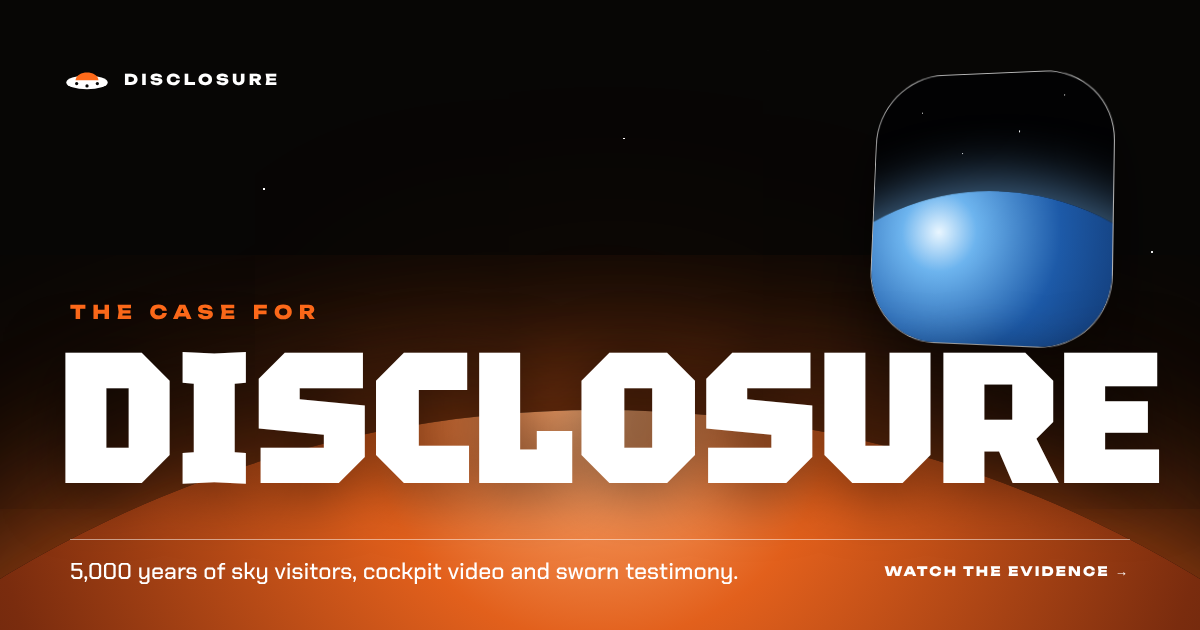
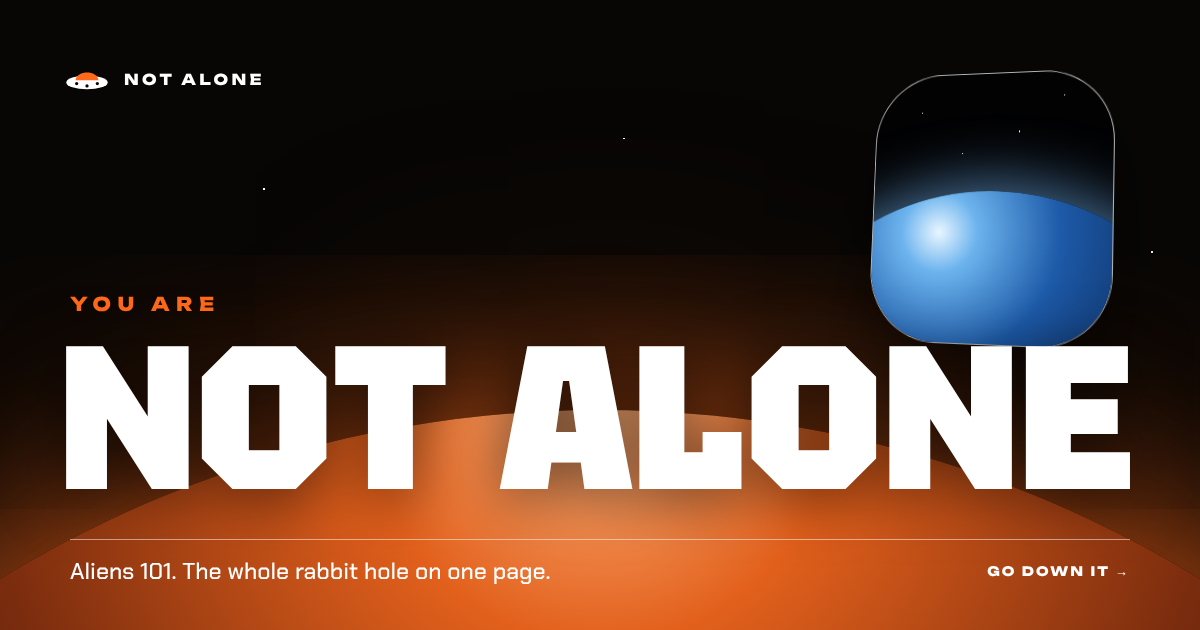
Rename to Not Alone; replace code-drawn beings and craft with photoreal AI plates
- Beings: one to-scale photoreal line-up with hotspots, portraits in each file
- Craft: 14 illustrated shapes (adds diamond, acorn/bell, Saturn shape, formations)
- Thesis: an illustration per chapter; film panels use trailer stills
- Side rail hides over the hero; lineup scrolls on phones
- New title, preview image and notalone101.vercel.app meta

Claude-Session: https://claude.ai/code/session_01Q8R8SLLEbLbDZ6hajFLDeA

diff --git a/app.js b/app.js
@@ -33,6 +33,8 @@ function show(frame, item, tileText, color) {
     const doc = /memo|Record|Times|Call|Assessment|Tehran|Twining|Blue Book|fatima|Nürnberg|Utsuro|graph|GEIPAN|map/i.test(a);
     frame.append(h("img", { src: cImg(a, 1100), alt: b, loading: "lazy", draggable: "false", class: doc ? "doc" : null, onerror: () => tile(frame, tileText, color) }), b ? h("div", { class: "cap", text: b }) : null,
       h("a", { class: "src", href: cPage(a), target: "_blank", rel: "noopener", text: "Commons · " + c }));
+  } else if (kind === "a") {
+    frame.append(h("img", { src: window.ART_BASE + a, alt: b, loading: "lazy", draggable: "false", onerror: () => tile(frame, tileText, color) }), b ? h("div", { class: "cap", text: b }) : null, h("span", { class: "src", text: "AI illustration" }));
   } else if (kind === "v") {
     const v = h("video", { controls: true, preload: "none", playsinline: true, poster: cPoster(a, 1100), "aria-label": c });
     ["480p.vp9.webm", "360p.mpeg4.mov", "240p.vp9.webm"].forEach(k => v.append(h("source", { src: cVid(a, b, k), type: k.endsWith("mov") ? "video/quicktime" : "video/webm" })));
@@ -49,7 +51,7 @@ function show(frame, item, tileText, color) {
 function mediaFrame(items, tileText, color) {
   const frame = h("div", { class: "media" }); items = (items || []).filter(Boolean);
   if (items.length > 1) { const tabs = h("div", { class: "tabs" });
-    items.forEach((it, i) => tabs.append(h("button", { type: "button", "aria-pressed": i === 0 ? "true" : "false", "aria-label": (it[0] === "i" ? "Image: " : "Video: ") + (it[0] === "v" ? it[3] : it[2]), text: it[0] === "i" ? "▣" : "▶", onclick: ev => { $$("button", tabs).forEach(x => x.setAttribute("aria-pressed", "false")); ev.currentTarget.setAttribute("aria-pressed", "true"); show(frame, it, tileText, color); } })));
+    items.forEach((it, i) => tabs.append(h("button", { type: "button", "aria-pressed": i === 0 ? "true" : "false", "aria-label": (it[0] === "i" || it[0] === "a" ? "Image: " : "Video: ") + (it[0] === "v" ? it[3] : it[2]), text: it[0] === "i" ? "▣" : it[0] === "a" ? "✦" : "▶", onclick: ev => { $$("button", tabs).forEach(x => x.setAttribute("aria-pressed", "false")); ev.currentTarget.setAttribute("aria-pressed", "true"); show(frame, it, tileText, color); } })));
     frame.append(tabs); }
   show(frame, items[0], tileText, color);
   return frame;
@@ -266,38 +268,24 @@ const CRAFT_G = {
   plasma: `<g class="blink"><circle cx="86" cy="58" r="26" fill="#ff6a1a" stroke="none" opacity=".6"/><circle cx="112" cy="64" r="22" fill="#ffd9b0" stroke="none" opacity=".6"/><circle cx="100" cy="54" r="12" fill="#fff" stroke="none"/></g><path d="M40 102c20-8 40 8 60 0s40 8 60 0" stroke-dasharray="2 7"/>`
 };
 
-/* ───────── beings lineup ───────── */
+/* ───────── beings lineup: one photoreal plate, eight hotspots ───────── */
+const A = window.ART, artUrl = k => window.ART_BASE + k;
 (() => {
-  const FT = 52, BASE = 470, W = 1210, B = Object.fromEntries(window.BEINGS.map(b => [b.g, b]));
-  const fig = (x, ft, o) => {
-    const H = ft * FT, top = BASE - H, hr = o.head * H, hy = top + hr * 1.15, sh = top + hr * 2.3 + H * .025, hip = BASE - H * .46, sw = o.sw * H, hw = o.hw * H, aw = o.limb * H, c = o.c, lw = o.ghost ? 1.5 : aw;
-    const body = o.orb ? `<circle cx="${x}" cy="${BASE - 150}" r="34" fill="${c}" opacity=".3"/><circle cx="${x}" cy="${BASE - 150}" r="20" fill="${c}"/><circle cx="${x}" cy="${BASE - 150}" r="52" fill="none" stroke="${c}" stroke-dasharray="2 8"/><path d="M${x} ${BASE - 96}V${BASE}" stroke="${c}" stroke-dasharray="1 9"/>` :
-      `<g fill="${o.ghost ? "none" : c}" stroke="${c}" stroke-linecap="round" stroke-linejoin="round" ${o.ghost ? 'stroke-dasharray="3 6"' : ""}><path d="M${x - sw} ${sh}L${x + sw} ${sh}L${x + hw} ${hip}L${x - hw} ${hip}z" stroke-width="${lw}"/><path d="M${x - sw} ${sh}L${x - sw - H * .035} ${hip + H * .1}M${x + sw} ${sh}L${x + sw + H * .035} ${hip + H * .1}M${x - hw * .55} ${hip}L${x - hw * .75} ${BASE - aw / 2}M${x + hw * .55} ${hip}L${x + hw * .75} ${BASE - aw / 2}" stroke-width="${lw}" fill="none"/><path d="M${x} ${hy + hr}L${x} ${sh}" stroke-width="${o.ghost ? 1.5 : aw * .9}"/></g>` +
-      (o.ghost ? `<ellipse cx="${x}" cy="${hy}" rx="${hr}" ry="${hr * 1.15}" fill="none" stroke="${c}" stroke-dasharray="3 6"/>` : o.tri ? `<path d="M${x - hr * 1.5} ${top + hr * .5}Q${x} ${top - hr * .5} ${x + hr * 1.5} ${top + hr * .5}L${x} ${top + hr * 2.5}z" fill="${c}"/>` : `<ellipse cx="${x}" cy="${hy}" rx="${hr * (o.hwid || 1)}" ry="${hr * 1.15}" fill="${c}"/>`) + (o.extra || (() => ""))(x, top, hr, hy, H, sh, hip);
-    return `<g class="${o.g ? "fg" : ""}" ${o.g ? `data-g="${o.g}" tabindex="0" role="button" aria-label="Open file: ${o.n}"` : 'opacity=".5"'}><rect x="${x - 62}" y="${BASE - 8.2 * FT}" width="124" height="${8.2 * FT + 60}" fill="transparent"/>${body}<text x="${x}" y="${BASE + 32}" text-anchor="middle" font-family="Tektur,Arial Narrow,sans-serif" font-weight="900" font-size="24" fill="#fff" style="text-transform:uppercase">${o.n.toUpperCase()}</text><text x="${x}" y="${BASE + 51}" text-anchor="middle" font-family="Unbounded,Arial,sans-serif" font-size="9" letter-spacing="1.4" fill="rgba(255,255,255,.66)">${o.h}</text></g>`;
-  };
-  const eyes = (dx, rx, ry, rot, col) => (x, top, hr, hy) => [-1, 1].map(s => `<ellipse cx="${x + s * hr * dx}" cy="${hy + hr * .2}" rx="${hr * rx}" ry="${hr * ry}" fill="${col || "#070605"}" transform="rotate(${-s * rot} ${x + s * hr * dx} ${hy + hr * .2})"/>`).join("");
-  const figs = [
-    [75, 3, { g: "goblin", n: "Little men", h: "UNDER 3 FT", head: .17, sw: .13, hw: .1, limb: .07, c: "#b9f0dc", extra: (x, top, hr, hy) => `<path d="M${x - hr} ${hy - hr * .3}l${-hr * .9} ${-hr * .9}l${hr * .5} ${hr * 1.2}zM${x + hr} ${hy - hr * .3}l${hr * .9} ${-hr * .9}l${-hr * .5} ${hr * 1.2}z" fill="#b9f0dc"/>` + eyes(.42, .26, .26, 0)(x, top, hr, hy) }],
-    [195, 4, { g: "grey", n: "Grey", h: "3.5 TO 4.5 FT", head: .13, hwid: 1.05, sw: .085, hw: .06, limb: .035, c: "#b4b9c4", extra: eyes(.45, .36, .22, 24) }],
-    [315, 5, { g: "hybrid", n: "Hybrid", h: "ABOUT 5 FT", head: .085, sw: .09, hw: .065, limb: .034, c: "#e9d9d0", extra: eyes(.45, .3, .2, 14) }],
-    [440, 5.75, { n: "You", h: "5 FT 9 IN", head: .065, sw: .12, hw: .085, limb: .05, c: "#fff", ghost: true }],
-    [570, 6.5, { g: "nordic", n: "Nordic", h: "6 TO 7 FT", head: .062, sw: .125, hw: .085, limb: .05, c: "#f4e6c4", extra: (x, top, hr, hy, H, sh) => `<path d="M${x - hr * 1.05} ${hy - hr * .5}Q${x - hr * 1.9} ${sh} ${x - hr * 1.5} ${sh + H * .09}M${x + hr * 1.05} ${hy - hr * .5}Q${x + hr * 1.9} ${sh} ${x + hr * 1.5} ${sh + H * .09}" stroke="#e7c873" stroke-width="${hr * .55}" fill="none" stroke-linecap="round"/>` }],
-    [700, 6.5, { g: "mantis", n: "Mantis", h: "6 TO 7 FT", head: .05, tri: true, sw: .075, hw: .05, limb: .024, c: "#a5d892", extra: (x, top, hr) => `<path d="M${x - hr * .6} ${top + hr * .2}Q${x - hr * 2.4} ${top - hr * 2.4} ${x - hr * 3.4} ${top - hr * 1.4}M${x + hr * .6} ${top + hr * .2}Q${x + hr * 2.4} ${top - hr * 2.4} ${x + hr * 3.4} ${top - hr * 1.4}" stroke="#a5d892" stroke-width="2" fill="none"/>` + [-1, 1].map(s => `<ellipse cx="${x + s * hr * .85}" cy="${top + hr * .75}" rx="${hr * .5}" ry="${hr * .3}" fill="#070605" transform="rotate(${-s * 28} ${x + s * hr * .85} ${top + hr * .75})"/>`).join("") }],
-    [845, 7, { g: "reptile", n: "Reptilian", h: "6 TO 8 FT", head: .066, sw: .15, hw: .1, limb: .06, c: "#d2a35a", extra: (x, top, hr, hy, H, sh, hip) => `<path d="M${x + H * .08} ${hip}Q${x + H * .24} ${BASE - H * .1} ${x + H * .1} ${BASE - 6}Q${x + H * .2} ${BASE - 2} ${x + H * .3} ${BASE - 10}" stroke="#d2a35a" stroke-width="${H * .03}" fill="none" stroke-linecap="round"/><path d="M${x - hr * .5} ${top + 2}l${hr * .25} ${-hr * .6}l${hr * .25} ${hr * .5}l${hr * .25} ${-hr * .6}l${hr * .25} ${hr * .6}" stroke="#d2a35a" stroke-width="2" fill="none"/>` + eyes(.42, .3, .1, 0)(x, top, hr, hy) }],
-    [1010, 7.5, { g: "white", n: "Tall White", h: "UP TO 8 FT", head: .062, sw: .095, hw: .065, limb: .034, c: "#f2f5ff", extra: eyes(.42, .34, .2, 16, "#5fb2ff") }],
-    [1130, 4, { g: "light", n: "Light form", h: "ANY SIZE", orb: true, head: .1, sw: .1, hw: .1, limb: .05, c: "#ffb476" }]
-  ];
-  let grid = ""; for (let f = 1; f <= 8; f++) grid += `<path d="M24 ${BASE - f * FT}H${W - 50}" stroke="rgba(255,255,255,${f % 2 ? .12 : .24})" stroke-dasharray="${f % 2 ? "2 8" : "0"}"/><text x="${W - 44}" y="${BASE - f * FT + 4}" font-family="Unbounded,Arial,sans-serif" font-size="9" fill="rgba(255,255,255,.66)">${f} FT</text>`;
-  const el = $("#lineup"); el.innerHTML = `<svg viewBox="0 0 ${W} 545" role="group" aria-label="Height comparison of eight reported being types against an average human"><path d="M24 ${BASE}H${W - 50}" stroke="rgba(255,255,255,.5)"/>${grid}${figs.map(([x, ft, o]) => fig(x, ft, o)).join("")}</svg>`;
-  const open = g => { const b = B[g], im = window.BEING_IMG[g]; if (!b) return; openDos({ left: im ? mediaFrame([["i", im[0], b.n, im[1]]], b.n, "var(--ice)") : h("div", { class: "art", html: svg("0 0 120 140", BEING_G[g]) }), meta: [h("span", { text: b.tag })], title: b.n, blocks: [["Look", b.look], ["Behaviour", b.does], ["Said to come from", b.from], ["Key cases", b.cases], ["Reality check", b.check, true]], links: [ext("Find accounts", ytFind(b.n + " alien encounter witness")), ext("Read more", wiki(b.n + " alien"))] }); };
-  el.addEventListener("click", e => { const g = e.target.closest(".fg"); if (g) open(g.dataset.g); });
-  el.addEventListener("keydown", e => { if ((e.key === "Enter" || e.key === " ") && e.target.matches(".fg")) { e.preventDefault(); open(e.target.dataset.g); } });
+  const B = Object.fromEntries(window.BEINGS.map(b => [b.g, b]));
+  const open = g => { const b = B[g]; if (!b) return; openDos({ left: A.being[g] ? mediaFrame([["a", A.being[g], b.n + ", as witnesses describe them"]], b.n, "var(--ice)") : h("div", { class: "art", html: svg("0 0 120 140", BEING_G[g]) }), meta: [h("span", { text: b.tag })], title: b.n, blocks: [["Look", b.look], ["Behaviour", b.does], ["Said to come from", b.from], ["Key cases", b.cases], ["Reality check", b.check, true]], links: [ext("Find accounts", ytFind(b.n + " alien encounter witness")), ext("Read more", wiki(b.n + " alien"))] }); };
+  const spots = [["goblin", "Little men", "Under 3 ft", 7.4, 53], ["grey", "Grey", "3.5 to 4.5 ft", 16.9, 37], ["hybrid", "Hybrid", "About 5 ft", 27.2, 30.5], [null, "You", "5 ft 9 in", 38.6, 24.5], ["nordic", "Nordic", "6 to 7 ft", 51, 13.5], ["mantis", "Mantis", "6 to 7 ft", 63.8, 9], ["reptile", "Reptilian", "6 to 8 ft", 77.5, 7.5], ["white", "Tall White", "Up to 8 ft", 91.2, 1.5]];
+  const shot = h("div", { class: "shot" }, h("img", { src: artUrl(A.lineup), alt: "Eight figures standing in a row against a dark wall, shortest to tallest: a little goblin-like being, a Grey, a hybrid, an average human, a Nordic, a mantis being, a Reptilian and a Tall White.", draggable: "false", onerror: e => { e.target.remove(); shot.classList.add("noimg"); } }),
+    spots.map(([g, n, ht, x, t]) => h(g ? "button" : "div", { class: "hs" + (g ? "" : " you"), type: g ? "button" : null, style: `--x:${x}%;--t:${t}%`, "data-cur": g ? "Open file" : null, "aria-label": g ? `Open file: ${n}, ${ht}` : null, onclick: g ? () => open(g) : null }, h("span", { class: "tag" }, h("b", { text: n }), h("i", { text: ht })))), h("span", { class: "ai", text: "AI illustration · heights to scale" }));
+  $("#lineup").append(h("div", { class: "plate" }, shot));
+  const L = B.light; $("#lineup").after(h("button", { class: "orbcard", type: "button", "data-cur": "Open file", onclick: () => open("light") }, A.being.light ? h("img", { src: artUrl(A.being.light), alt: "", loading: "lazy", draggable: "false", onerror: e => e.target.remove() }) : null, h("span", {}, h("i", { text: L.tag }), h("b", { text: L.n }), h("em", { text: "The ninth type has no body to measure. Open the file →" }))));
 })();
 
 /* ───────── craft, observables ───────── */
-$("#craft-deck").append(deck(window.CRAFT.map(c => { const art = () => h("div", { class: "art", html: svg("0 0 200 120", CRAFT_G[c.g] || "") });
-  return h("article", { class: "pan craft" }, art(), h("div", { class: "pf" }, h("div", { class: "meta" }, h("span", { text: c.size })), h("h3", { text: c.n }), h("button", { class: "open", type: "button", "data-cur": "Open file", text: "Open the file →", onclick: () => openDos({ left: art(), meta: [h("span", { text: "Reported size " + c.size })], title: c.n, blocks: [["How it behaves", c.how], ["Key cases", c.cases], ["Often turns out to be", c.alike, true]], links: [ext("Find footage", ytFind(c.n + " UFO footage"))] }) }))); })));
+$("#craft-count").textContent = `${["Zero","One","Two","Three","Four","Five","Six","Seven","Eight","Nine","Ten","Eleven","Twelve","Thirteen","Fourteen","Fifteen","Sixteen"][window.CRAFT.length] || window.CRAFT.length} shapes. Orbs and lights make up most of today's military reports.`;
+$("#craft-deck").append(deck(window.CRAFT.map(c => { const u = A.craft[c.g];
+  const art = () => { const b = h("div", { class: "art" }); if (u) b.append(h("img", { src: artUrl(u), alt: c.n + ", illustrated", loading: "lazy", draggable: "false", onerror: e => { b.innerHTML = svg("0 0 200 120", CRAFT_G[c.g] || ""); } }), h("span", { class: "ai", text: "AI illustration" })); else b.innerHTML = svg("0 0 200 120", CRAFT_G[c.g] || ""); return b; };
+  const file = () => openDos({ left: u ? mediaFrame([["a", u, c.n]], c.n, "var(--hot)") : art(), meta: [h("span", { text: "Reported size " + c.size })], title: c.n, blocks: [["How it behaves", c.how], ["Key cases", c.cases], ["Often turns out to be", c.alike, true]], links: [ext("Find footage", ytFind(c.n + " UFO footage"))] });
+  return h("article", { class: "pan craft" }, art(), h("div", { class: "pf" }, h("div", { class: "meta" }, h("span", { text: c.size })), h("h3", { text: c.n }), h("button", { class: "open", type: "button", "data-cur": "Open file", text: "Open the file →", onclick: file }))); })));
 window.OBSERVABLES.forEach((o, i) => $("#obs").append(h("div", {}, h("b", { text: String(i + 1) }), h("h4", { text: o.n }), h("p", { text: o.t }))));
 $("#obs-vid").append(mediaFrame([window.SECTION_VIDEO.observables], "5", "var(--hot)"), mediaFrame([["i", "USS Nimitz 2004 tic tac UFO.jpg", "Artist's reconstruction of the 2004 Nimitz encounter", "CC BY-SA 4.0"]], "2004", "var(--hot)"));
 
@@ -328,13 +316,16 @@ const VOICE_YT = { "David Grusch": "RBAISwCZ2v0", "Jacques Vallée": "fyX8V1XXmQ
 /* ───────── thesis, films ───────── */
 function filmDeck() {
   return deck(window.FILMS.map((f, i) => { const frame = h("div", { class: "media" }), id = window.FILM_YT[f.y];
-    const face = h("a", { class: "face", href: id ? "https://www.youtube.com/watch?v=" + id : ytFind(f.n + " official trailer"), target: "_blank", rel: "noopener", "data-cur": "Trailer", "aria-label": "Play trailer: " + f.n }, h("div", { class: "poster", style: `--h:${(18 + i * 29) % 360}` }, h("b", { text: String(f.y) }), h("div", {}, f.s ? h("span", { text: "Spielberg" }) : null, h("h4", { text: f.n }))), h("span", { class: "play" }));
+    const face = h("a", { class: "face", href: id ? "https://www.youtube.com/watch?v=" + id : ytFind(f.n + " official trailer"), target: "_blank", rel: "noopener", "data-cur": "Trailer", "aria-label": "Play trailer: " + f.n }, h("div", { class: "poster" + (id ? " shot" : ""), style: `--h:${(18 + i * 29) % 360}` }, id ? h("img", { src: `https://i.ytimg.com/vi/${id}/hqdefault.jpg`, alt: "", loading: "lazy", draggable: "false", onerror: e => { e.target.parentElement.classList.remove("shot"); e.target.remove(); } }) : null, h("b", { text: String(f.y) }), h("div", {}, f.s ? h("span", { text: "Spielberg" }) : null, h("h4", { text: f.n }))), h("span", { class: "play" }));
     if (EMBED && id) face.addEventListener("click", ev => { ev.preventDefault(); frame.replaceChildren(h("iframe", { src: `https://www.youtube-nocookie.com/embed/${id}?autoplay=1&rel=0`, title: f.n + " trailer", allow: "autoplay; encrypted-media; picture-in-picture; fullscreen", allowfullscreen: true, referrerpolicy: "strict-origin-when-cross-origin" })); });
     frame.append(face); return h("article", { class: "pan" }, frame, h("p", { text: f.t })); }), "films");
 }
+const TH_CAP = ["They came down, and we called them gods", "One sky, three pyramids", "Something was added", "The view from the other side of the glass", "Same visitor, different costume", "What a secret this size would look like", "We were shown it in the dark first", "The proof may already be inside us"];
 window.THESIS.forEach((t, i) => {
-  const inset = i === 6 ? h("div", { class: "inset wide", style: "margin-left:calc(-1*var(--pad));margin-right:calc(-1*var(--pad))" }, filmDeck()) : i === 0 ? h("div", { class: "inset" }, mediaFrame([["i", "Pieter Bruegel the Elder - The Fall of the Rebel Angels - Google Art Project.jpg", "Bruegel, The Fall of the Rebel Angels, 1562", "PD"]], "I", "var(--hot)")) : i === 3 ? h("div", { class: "inset" }, mediaFrame([window.SECTION_VIDEO.zoo], "IV", "var(--hot)")) : null;
-  $("#thesis-list").append(h("div", { class: "th" }, h("b", { text: String(i + 1) }), h("div", {}, h("h3", { text: t.n }), h("p", { class: "say", text: t.t }), inset,
+  const items = [A.thesis[i] ? ["a", A.thesis[i], TH_CAP[i]] : null, i === 0 ? ["i", "Pieter Bruegel the Elder - The Fall of the Rebel Angels - Google Art Project.jpg", "Bruegel, The Fall of the Rebel Angels, 1562", "PD"] : null, i === 3 ? window.SECTION_VIDEO.zoo : null];
+  const inset = items.some(Boolean) ? h("div", { class: "inset art16" }, mediaFrame(items, ["I", "II", "III", "IV", "V", "VI", "VII", "VIII"][i], "var(--hot)")) : null;
+  const films = i === 6 ? h("div", { class: "inset wide", style: "margin-left:calc(-1*var(--pad));margin-right:calc(-1*var(--pad))" }, filmDeck()) : null;
+  $("#thesis-list").append(h("div", { class: "th" }, h("b", { text: String(i + 1) }), h("div", {}, h("h3", { text: t.n }), inset, h("p", { class: "say", text: t.t }), films,
     h("details", {}, h("summary", { class: "open", "data-cur": "Expand", text: "Pressure test →" }), h("div", { class: "rowbody" }, blk("What supports it", t.f), blk("What cuts against it", t.x, true))))));
 });
 
@@ -360,5 +351,6 @@ for (const k in window.LIBRARY) $("#lib").append(h("div", {}, h("h3", { text: k 
 $("#lib").append(h("div", {}, h("h3", { text: "Sources" }), h("ul", {}, window.SOURCES.map(([t, u]) => h("li", {}, h("a", { href: u, target: "_blank", rel: "noopener", text: t + " ↗" }))))));
 $("#credits").append("Background photography: ", Object.values(window.BG).map(([f, lic, who], i) => [i ? ", " : "", h("a", { href: cPage(f), target: "_blank", rel: "noopener", text: who }), " (" + lic + ")"]), ". Hero video from the Planet Jumping asset set.");
 
+new IntersectionObserver(es => document.body.classList.toggle("at-top", es[0].isIntersecting), { rootMargin: "-45% 0px -45% 0px" }).observe($("#top"));
 armBg(document); reveal(document); collectPar(); parallax(); requestAnimationFrame(frame); requestAnimationFrame(portalFrame);
 })();

diff --git a/style.css b/style.css
@@ -69,6 +69,8 @@ main,footer{position:relative;z-index:1}
 .rail a.on{color:#fff;font-weight:600;font-size:16px;gap:8px}
 .rail a.on::before{width:12px}
 .rail a:hover{color:#fff;transform:translateX(4px)}
+.rail{transition:opacity .5s,visibility .5s}
+body.at-top .rail{opacity:0!important;visibility:hidden}
 .hud{position:fixed;z-index:54;left:var(--pad);right:var(--pad);bottom:14px;display:flex;justify-content:space-between;font:500 10px var(--ui);letter-spacing:.16em;text-transform:uppercase;color:var(--dim);pointer-events:none;mix-blend-mode:difference}
 .hud b{color:#fff;font-weight:500}
 .bar{position:fixed;z-index:61;left:0;top:0;height:2px;width:0;background:var(--hot);box-shadow:0 0 12px var(--hot)}
@@ -196,7 +198,7 @@ button.chip[aria-pressed=true]{background:#fff;color:#000;border-color:#fff}
 @media (max-width:760px){.duo{grid-template-columns:1fr}}
 
 /* ── filter bar ── */
-.tools{position:sticky;top:0;z-index:40;display:flex;flex-wrap:wrap;gap:8px;align-items:center;padding:74px var(--pad) 12px calc(var(--pad) + var(--railw));background:linear-gradient(rgba(7,6,5,.92) 60%,transparent)}
+.tools{position:sticky;top:0;z-index:8;display:flex;flex-wrap:wrap;gap:8px;align-items:center;padding:74px var(--pad) 12px calc(var(--pad) + var(--railw));background:linear-gradient(rgba(7,6,5,.92) 60%,transparent)}
 .tools input{flex:1 1 200px;max-width:340px;height:36px;border-radius:999px;border:1px solid rgba(255,255,255,.45);background:var(--glass);backdrop-filter:blur(12px);padding:0 16px;color:#fff;font:500 14px var(--body)}
 .tools input::placeholder{color:var(--dim)}
 .era .mega{font-size:clamp(40px,7.4vw,128px)}
@@ -222,15 +224,36 @@ button.chip[aria-pressed=true]{background:#fff;color:#000;border-color:#fff}
 @media (max-width:900px){.stage .list{flex-direction:row;overflow-x:auto;right:0;left:0;padding:0 var(--pad);gap:16px;top:150px;scrollbar-width:none}.stage .list button{white-space:nowrap}.stage .big{display:none}}
 
 /* ── lineup ── */
-.lineup{overflow-x:auto;border-radius:28px;border:1px solid rgba(255,255,255,.45);background:rgba(7,6,5,.55);backdrop-filter:blur(14px)}
-.lineup svg{display:block;width:100%;min-width:900px;height:auto}
-.lineup .fg{transition:transform .5s var(--ease),filter .3s;transform-box:fill-box;transform-origin:50% 100%}
-.lineup .fg:hover{transform:scale(1.045);filter:drop-shadow(0 0 22px rgba(255,255,255,.55))}
-
-/* ── craft panels ── */
-.pan.craft{flex-basis:min(70vw,440px)}
+.lineup{overflow-x:auto;border-radius:28px;border:1px solid rgba(255,255,255,.45);background:#060504;scrollbar-width:none}
+.lineup::-webkit-scrollbar{display:none}
+.plate{min-width:1000px;padding-bottom:78px}
+.shot{position:relative}
+.shot>img{display:block;width:100%;height:auto;aspect-ratio:1344/752}
+.shot.noimg{height:150px}
+.shot.noimg .hs{top:0}
+.hs{position:absolute;left:calc(var(--x) - 5.7%);width:11.4%;top:var(--t);bottom:0;background:none;border:0;padding:0;color:#fff;border-radius:14px 14px 0 0;transition:background .4s}
+.hs::before{content:"";position:absolute;left:10%;right:10%;top:0;height:1px;background:var(--hot);box-shadow:0 0 14px var(--hot);transform:scaleX(0);transition:transform .5s var(--ease)}
+button.hs:hover,button.hs:focus-visible{background:linear-gradient(to top,rgba(255,106,26,.34),rgba(255,106,26,.06) 55%,transparent);outline:0}
+button.hs:hover::before,button.hs:focus-visible::before{transform:scaleX(1)}
+.hs .tag{position:absolute;top:100%;left:50%;transform:translateX(-50%);padding-top:16px;display:grid;gap:5px;justify-items:center;white-space:nowrap;transition:transform .4s var(--ease),color .3s}
+.hs .tag b{font:900 clamp(15px,1.55vw,24px)/1 var(--mega);text-transform:uppercase}
+.hs .tag i{font:500 9px var(--ui);font-style:normal;letter-spacing:.06em;text-transform:uppercase;color:var(--dim)}
+button.hs:hover .tag,button.hs:focus-visible .tag{color:var(--hot);transform:translateX(-50%) translateY(-4px)}
+.hs.you .tag b{-webkit-text-stroke:1px #fff;color:transparent}
+.ai{position:absolute;right:14px;top:14px;z-index:3;font:500 9px var(--ui);letter-spacing:.1em;text-transform:uppercase;background:rgba(0,0,0,.55);padding:6px 9px;border-radius:999px;backdrop-filter:blur(8px);pointer-events:none}
+.orbcard{position:relative;display:block;width:100%;margin-top:16px;aspect-ratio:21/6;min-height:170px;border-radius:28px;border:1px solid rgba(255,255,255,.45);overflow:hidden;background:#0b0a09;color:#fff;text-align:left;padding:0}
+.orbcard img{position:absolute;inset:0;width:100%;height:100%;object-fit:cover;object-position:50% 62%;transition:transform 1.4s var(--ease)}
+.orbcard:hover img{transform:scale(1.05)}
+.orbcard::after{content:"";position:absolute;inset:0;background:linear-gradient(90deg,rgba(7,6,5,.86),rgba(7,6,5,.2) 55%,transparent)}
+.orbcard span{position:absolute;z-index:2;left:clamp(20px,3vw,40px);bottom:clamp(18px,2.4vw,32px);display:grid;gap:8px}
+.orbcard i{font:500 9px var(--ui);font-style:normal;letter-spacing:.16em;text-transform:uppercase;color:var(--hot)}
+.orbcard b{font:900 clamp(28px,4vw,62px)/.9 var(--mega);text-transform:uppercase}
+.orbcard em{font-style:normal;font-size:14px;color:rgba(255,255,255,.86)}
 .art{position:relative;aspect-ratio:16/11;border-radius:28px;border:1px solid rgba(255,255,255,.45);background:rgba(7,6,5,.5);backdrop-filter:blur(10px);display:grid;place-items:center;overflow:hidden}
 .art svg{width:78%;height:78%;overflow:visible}
+.art>img{position:absolute;inset:0;width:100%;height:100%;object-fit:cover;transition:transform 1.4s var(--ease)}
+.pan:hover .art>img{transform:scale(1.06)}
+.pan.craft .art{aspect-ratio:16/10;box-shadow:0 30px 80px -30px #000}
 .float{animation:float 6s ease-in-out infinite}
 @keyframes float{50%{transform:translateY(-9px)}}
 .blink{animation:blink 2.4s ease-in-out infinite}
@@ -300,6 +323,8 @@ button.chip[aria-pressed=true]{background:#fff;color:#000;border-color:#fff}
 .th details .rowbody{grid-template-columns:1fr;padding-top:16px}
 .th .inset{margin-top:24px;max-width:62ch}
 .th .inset.wide{max-width:none}
+.th .inset.art16{max-width:min(100%,1040px);margin-top:26px}
+.th .inset.art16 .media{aspect-ratio:16/9;border:1px solid rgba(255,255,255,.4)}
 @media (max-width:640px){.th{grid-template-columns:1fr}}
 .closing{font:900 clamp(30px,5vw,88px)/.92 var(--mega);text-transform:uppercase;max-width:16em;margin-top:clamp(50px,8vw,110px);text-wrap:balance}
 .closing em{font-style:normal;color:var(--hot)}
@@ -307,6 +332,10 @@ button.chip[aria-pressed=true]{background:#fff;color:#000;border-color:#fff}
 .poster{position:absolute;inset:0;display:flex;flex-direction:column;justify-content:space-between;padding:20px;background:linear-gradient(155deg,hsl(var(--h) 60% 30%),#0b0908 70%)}
 .poster b{font:900 84px/.8 var(--mega);-webkit-text-stroke:1.5px #fff;color:transparent}
 .poster h4{font:900 32px/.92 var(--mega);text-transform:uppercase;max-width:88%}
+.poster.shot{background:#0b0908}
+.poster>img{position:absolute;inset:0;width:100%;height:100%;object-fit:cover;z-index:0}
+.poster.shot::before{content:"";position:absolute;inset:0;z-index:1;background:linear-gradient(rgba(7,6,5,.55),transparent 35%,transparent 45%,rgba(7,6,5,.9))}
+.poster>b,.poster>div{position:relative;z-index:2}
 .poster span{font:500 9px var(--ui);letter-spacing:.16em;text-transform:uppercase;color:var(--hot)}
 .films p{font-size:14px;color:var(--dim);padding:12px 6px 0}
 

diff --git a/index.html b/index.html
@@ -3,22 +3,22 @@
 <head>
 <meta charset="utf-8">
 <meta name="viewport" content="width=device-width, initial-scale=1">
-<title>The Case for Disclosure</title>
-<meta name="description" content="Five thousand years of sky visitors, crash stories, cockpit video and sworn testimony. Watch the evidence, then read the pushback beside every claim.">
+<title>Not Alone · Aliens 101</title>
+<meta name="description" content="The whole rabbit hole on one page. Sky gods, Roswell, the Tic Tac, Congress under oath, and what it could all mean. Watch the evidence, then read the pushback beside every claim.">
 <meta name="theme-color" content="#070605">
 <link rel="icon" href="favicon.svg" type="image/svg+xml">
 <link rel="apple-touch-icon" href="apple-touch-icon.png">
 <meta property="og:type" content="website">
-<meta property="og:title" content="The Case for Disclosure">
-<meta property="og:description" content="Five thousand years of sky visitors, crash stories, cockpit video and sworn testimony, in one scroll.">
-<meta property="og:url" content="https://case-for-disclosure.vercel.app/">
-<meta property="og:image" content="https://case-for-disclosure.vercel.app/og.png">
+<meta property="og:title" content="Not Alone · Aliens 101">
+<meta property="og:description" content="The whole rabbit hole on one page. Sky gods, Roswell, the Tic Tac, Congress under oath, and what it could all mean.">
+<meta property="og:url" content="https://notalone101.vercel.app/">
+<meta property="og:image" content="https://notalone101.vercel.app/og.png">
 <meta property="og:image:width" content="1200">
 <meta property="og:image:height" content="630">
 <meta name="twitter:card" content="summary_large_image">
-<meta name="twitter:title" content="The Case for Disclosure">
-<meta name="twitter:description" content="Five thousand years of sky visitors, crash stories, cockpit video and sworn testimony, in one scroll.">
-<meta name="twitter:image" content="https://case-for-disclosure.vercel.app/og.png">
+<meta name="twitter:title" content="Not Alone · Aliens 101">
+<meta name="twitter:description" content="The whole rabbit hole on one page. Sky gods, Roswell, the Tic Tac, Congress under oath, and what it could all mean.">
+<meta name="twitter:image" content="https://notalone101.vercel.app/og.png">
 <link rel="preload" href="fonts/tektur-latin-900-normal.woff2" as="font" type="font/woff2" crossorigin>
 <link rel="stylesheet" href="style.css">
 </head>
@@ -28,9 +28,9 @@
 
 <div class="pre" id="pre" aria-label="Loading"><video id="pre-video" muted playsinline preload="auto" src="https://d2ol7oe51mr4n9.cloudfront.net/user_38xzZboKViGWJOttwIXH07lWA1P/5fc5651c-3b5d-4171-b507-87f7e635d1b4.mp4"></video></div>
 <div class="pre-count" id="pre-count" aria-live="polite"><span id="pre-val">0</span><i>%</i></div>
-<a class="logo" id="logo" href="#top" aria-label="Disclosure, back to top">
+<a class="logo" id="logo" href="#top" aria-label="Not Alone, back to top">
   <svg viewBox="0 0 40 40" fill="none" aria-hidden="true"><ellipse cx="20" cy="23" rx="18" ry="6" fill="#fff"/><path d="M10 21c1-9 19-9 20 0z" fill="#ff6a1a"/><circle cx="11" cy="24" r="1.4" fill="#070605"/><circle cx="20" cy="26" r="1.4" fill="#070605"/><circle cx="29" cy="24" r="1.4" fill="#070605"/></svg>
-  <span>Disclosure</span>
+  <span>Not Alone</span>
 </a>
 <header class="top"><nav class="nav" id="nav" aria-label="Primary"></nav><button class="menu" id="menu" type="button" data-cur="Menu">Menu</button></header>
 <aside class="rail" id="rail" aria-label="Sections"></aside>
@@ -47,7 +47,7 @@
     <button class="portal" id="portal" type="button" data-cur="Enter" aria-label="Enter: travel to Earth and watch the footage"></button>
   </div>
   <div class="hero-content chrome">
-    <h1><small>The case for</small>Disclosure</h1>
+    <h1><small>You are</small>Not alone</h1>
     <dl class="facts" id="facts"></dl>
   </div>
   <video id="portal-video" muted playsinline loop preload="auto" src="https://d2ol7oe51mr4n9.cloudfront.net/user_38xzZboKViGWJOttwIXH07lWA1P/fc3ded42-e845-41f3-a830-5cab512d79cd.mp4" style="position:absolute;width:1px;height:1px;visibility:hidden"></video>
@@ -83,12 +83,12 @@
 </section>
 
 <section class="scene" id="beings" data-name="Beings"><div class="bg" data-bg="beings"></div><div class="veil"></div>
-  <div class="inner"><div class="headrow"><div><span class="kick">Who people see</span><h2 class="mega">The <em>beings</em></h2></div><p class="lede">Heights as witnesses most often report them, drawn to one scale. Pick a figure to open its file.</p></div>
+  <div class="inner"><div class="headrow"><div><span class="kick">Who people see</span><h2 class="mega">The <em>beings</em></h2></div><p class="lede">Heights as witnesses most often report them, shown to one scale. Pick a figure to open its file.</p></div>
     <div class="lineup" id="lineup"></div></div>
 </section>
 
 <section class="scene" id="craft" data-name="Craft"><div class="bg" data-bg="craft"></div><div class="veil"></div>
-  <div class="inner"><div class="headrow"><div><span class="kick">What people see</span><h2 class="mega">The <em>craft</em></h2></div><p class="lede">Ten shapes. Orbs and lights make up most of today's military reports.</p></div></div>
+  <div class="inner"><div class="headrow"><div><span class="kick">What people see</span><h2 class="mega">The <em>craft</em></h2></div><p class="lede" id="craft-count">Orbs and lights make up most of today's military reports.</p></div></div>
   <div id="craft-deck"></div>
   <div class="inner"><h3 class="sub">Why they are not aircraft</h3><div class="split"><div class="obs" id="obs"></div><div class="stack" id="obs-vid"></div></div></div>
 </section>
@@ -147,6 +147,7 @@
 <script src="data/atlas.js"></script>
 <script src="data/media.js"></script>
 <script src="data/extra.js"></script>
+<script src="data/art.js"></script>
 <script src="app.js"></script>
 </body>
 </html>

diff --git a/data/art.js b/data/art.js
@@ -1,0 +1,41 @@
+/* Original AI illustrations generated for this site (Higgsfield, GPT Image). They are reconstructions of witness descriptions, not photographs. */
+window.ART_BASE = "https://d8j0ntlcm91z4.cloudfront.net/user_3JmN8ceS5QkrfG5ooFzPEFDS1rx/";
+window.ART = {
+ "lineup": "hf_20261113_220115_b53c0c25-f66a-4b0c-9ec7-52a451f55c74.png",
+ "being": {
+  "grey": "hf_20261113_220218_5c45c6a8-4137-4a41-9df1-3bbcb3e30982.png",
+  "nordic": "hf_20261113_220306_7fc15b39-8927-4aee-8986-0a03ed49a1aa.png",
+  "reptile": "hf_20261113_220306_d673ad55-0ef6-4319-8136-0859d5707ea2.png",
+  "mantis": "hf_20261113_220307_033bf7ed-33b8-4008-9a47-9e3d7bc06cae.png",
+  "white": "hf_20261113_220219_1ca503d4-ca3b-4f2e-a2ec-8b8438c2b7e0.png",
+  "goblin": "hf_20261113_220218_407d9bea-ffb4-411a-bff2-913be6f9e819.png",
+  "hybrid": "hf_20261113_220307_0820e6ab-e143-40fd-a7f4-013c84f3d524.png",
+  "light": "hf_20261113_220217_99373c3d-311e-4891-bb9a-1ce2e756d76c.png"
+ },
+ "craft": {
+  "orb": "hf_20261113_220709_34227866-e933-49d4-b2c0-a096bea653ba.png",
+  "disc": "hf_20261113_220708_5698468b-3063-4099-8955-e05016894347.png",
+  "triangle": "hf_20261113_220708_0ad138a9-e1e7-4dc5-9fe1-04659539bb68.png",
+  "tictac": "hf_20261113_220708_398da72a-d21d-4439-9c1f-1c9c0de2866c.png",
+  "cigar": "hf_20261113_220752_693e5606-5c87-4d80-a8e4-8236d71b221e.png",
+  "egg": "hf_20261113_220752_13588bc8-8cd4-4ce0-a5c1-1e4a825f8515.png",
+  "cube": "hf_20261113_220936_0ec9ae77-a85d-4e9e-9730-38648d791cac.png",
+  "boomerang": "hf_20261113_220752_7f4dae24-e653-4d4b-b797-8fd65d3a4091.png",
+  "diamond": "hf_20261113_220844_8d8b4375-523e-4108-8984-f908657fbf83.png",
+  "acorn": "hf_20261113_221042_08998277-49f5-471a-bb0a-330965d8e28c.png",
+  "saturn": "hf_20261113_220936_6ec5ae61-abfd-4d34-82cb-7ffec2615450.png",
+  "fleet": "hf_20261113_220936_883c45bc-caf1-40db-b323-ce5528f7da4a.png",
+  "jelly": "hf_20261113_220844_47ea925a-78af-4941-ac96-2d114649adfa.png",
+  "plasma": "hf_20261113_220843_0a206739-6b05-42d1-a466-3cd044f2305d.png"
+ },
+ "thesis": [
+  "hf_20261113_220936_751b6152-194b-4ec8-b4f3-62f4cca9f64f.png",
+  "hf_20261113_221041_e0a0d90f-e80e-4e16-bd11-27cc63bfb414.png",
+  "hf_20261113_221042_e710cdbd-77ea-44f9-a173-b188a97f9bff.png",
+  "hf_20261113_221042_52e5782d-064a-4151-b459-b2152df3dc11.png",
+  "hf_20261113_221132_37ffb354-5fe7-4b24-ae08-a6e8e09ae472.png",
+  "hf_20261113_221132_fee9df19-1b2c-43d9-84f4-b8ba850c10ed.png",
+  "hf_20261113_221133_3bd87460-f7af-4311-83ed-1de5a99687b2.png",
+  "hf_20261113_221132_aecc3b81-4aa5-4c08-8d5b-b9815b8ca367.png"
+ ]
+};

diff --git a/data/atlas.js b/data/atlas.js
@@ -135,6 +135,22 @@ window.CRAFT = [
     how:`A wide V of lights on a dark body that blocks the stars. Slow, low and silent.`,
     cases:`Hudson Valley 1983 to 1986, Phoenix 1997, Stephenville 2008.`,
     alike:`Formation flights, flying-wing aircraft, flares.` },
+  { g:"diamond", n:"Diamond", size:"Tens of metres",
+    how:`A glowing or dark diamond that hangs in place and gives off heat. Witnesses on the ground describe burns and sickness afterwards.`,
+    cases:`Cash–Landrum in Texas 1980, where three people reported a flame-venting diamond escorted by helicopters. The Calvine photograph in Scotland 1990, lost for 32 years and found again in 2022.`,
+    alike:`A secret aircraft or a military exercise. The Calvine picture has also been argued to be a rock reflected in still water.` },
+  { g:"acorn", n:"Acorn or bell", size:"3 to 4 m",
+    how:`A blunt metal cone the size of a small car with a raised band around its base. It turns up in crash stories far more often than in flight.`,
+    cases:`Kecksburg, Pennsylvania 1965, where witnesses described markings like hieroglyphs on the band. The "Nazi Bell" legend, which first appeared in a Polish book in 2000.`,
+    alike:`A meteor fireball was tracked across six states that night. A failed Soviet Venus probe also came down that day, though hours earlier.` },
+  { g:"saturn", n:"Saturn shape", size:"Tens of metres",
+    how:`A flattened sphere with a wide ring around its middle. It appears in a handful of famous photographs and rarely in modern reports.`,
+    cases:`Trindade Island 1958, photographed from a Brazilian Navy ship by Almiro Baraúna and released to the press by Brazil's president.`,
+    alike:`Trick photography. In 2010 a family friend told Brazilian television that Baraúna had admitted faking the pictures.` },
+  { g:"fleet", n:"Formations", size:"Spans the sky",
+    how:`A string, arc or V of separate lights that hold position on each other as they cross the sky, sometimes changing order.`,
+    cases:`The Lubbock Lights 1951, the Washington radar flap of 1952, the second Phoenix event of 1997.`,
+    alike:`Birds lit from below, which was the Air Force answer for Lubbock. Military flares. Today, a train of Starlink satellites.` },
   { g:"jelly", n:"Jellyfish and odd shapes", size:"1 to 5 m",
     how:`An irregular body with hanging parts that drifts at a constant speed and height and holds its shape.`,
     cases:`The 2018 Iraq video, the "mosul orb", the potato-shaped object over Cheyenne Mountain in 2022.`,

diff --git a/README.md b/README.md
@@ -1,7 +1,7 @@
-# The Case for Disclosure
+# Not Alone
 
 A static, single-page visual field guide to the UFO/UAP phenomenon. No build step.
-Live: https://case-for-disclosure.vercel.app
+Live: https://notalone101.vercel.app
 
 - `index.html` – markup and meta tags
 - `style.css` – the interface (Tektur, Unbounded and Chakra Petch are self-hosted in `fonts/`)
@@ -10,5 +10,6 @@ Live: https://case-for-disclosure.vercel.app
 - `data/atlas.js` – sites, beings, craft, origins, Fermi answers, retrieval claims, voices, thesis
 - `data/media.js` – Wikimedia Commons files and YouTube IDs attached to each entry
 - `data/extra.js` – government programs and background photography
+- `data/art.js` – original AI illustrations (beings line-up, portraits, craft, thesis plates), hot-linked from the generator's CDN
 
 This branch is independent of `main`.
